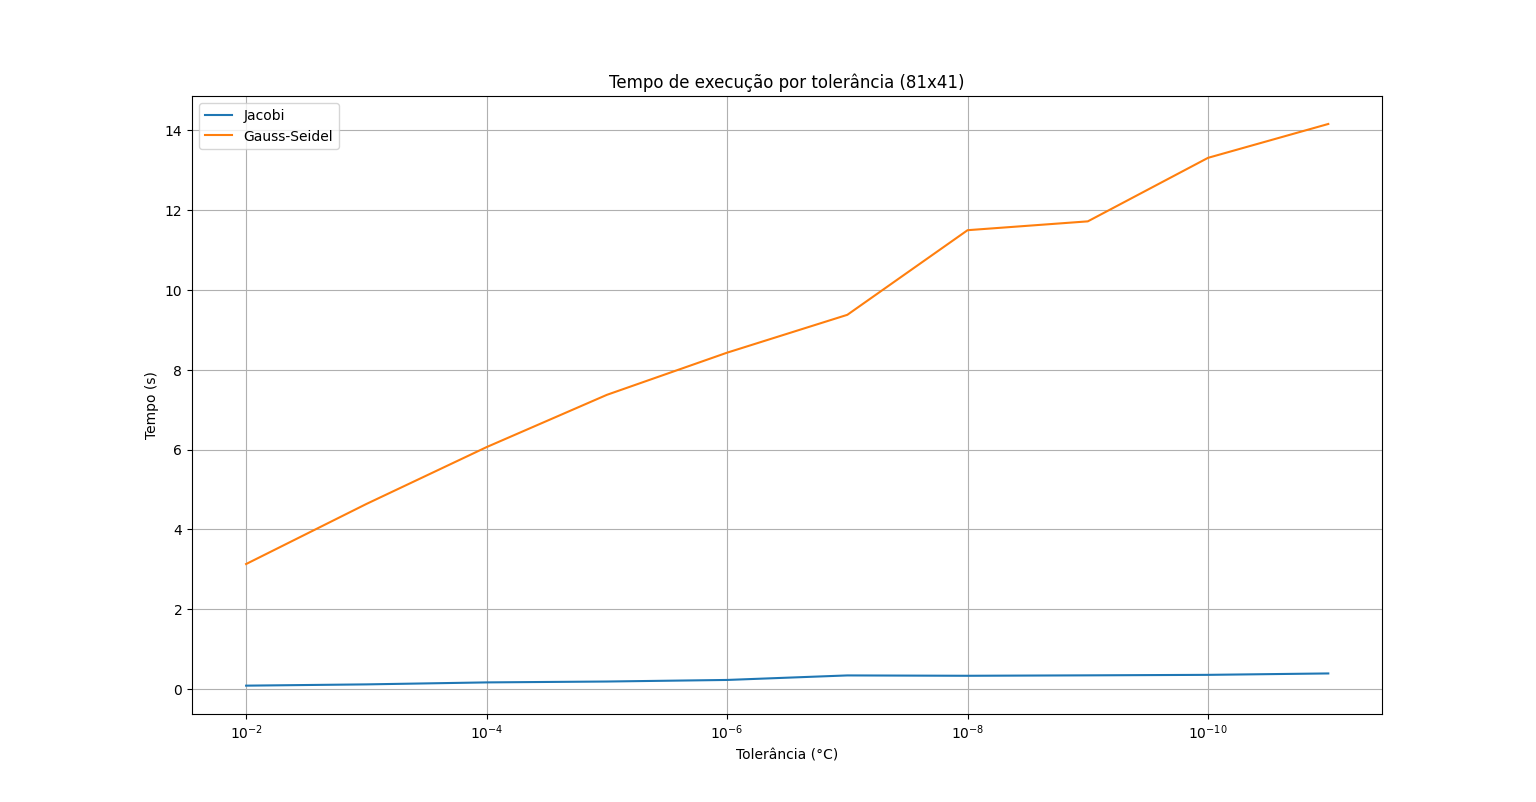
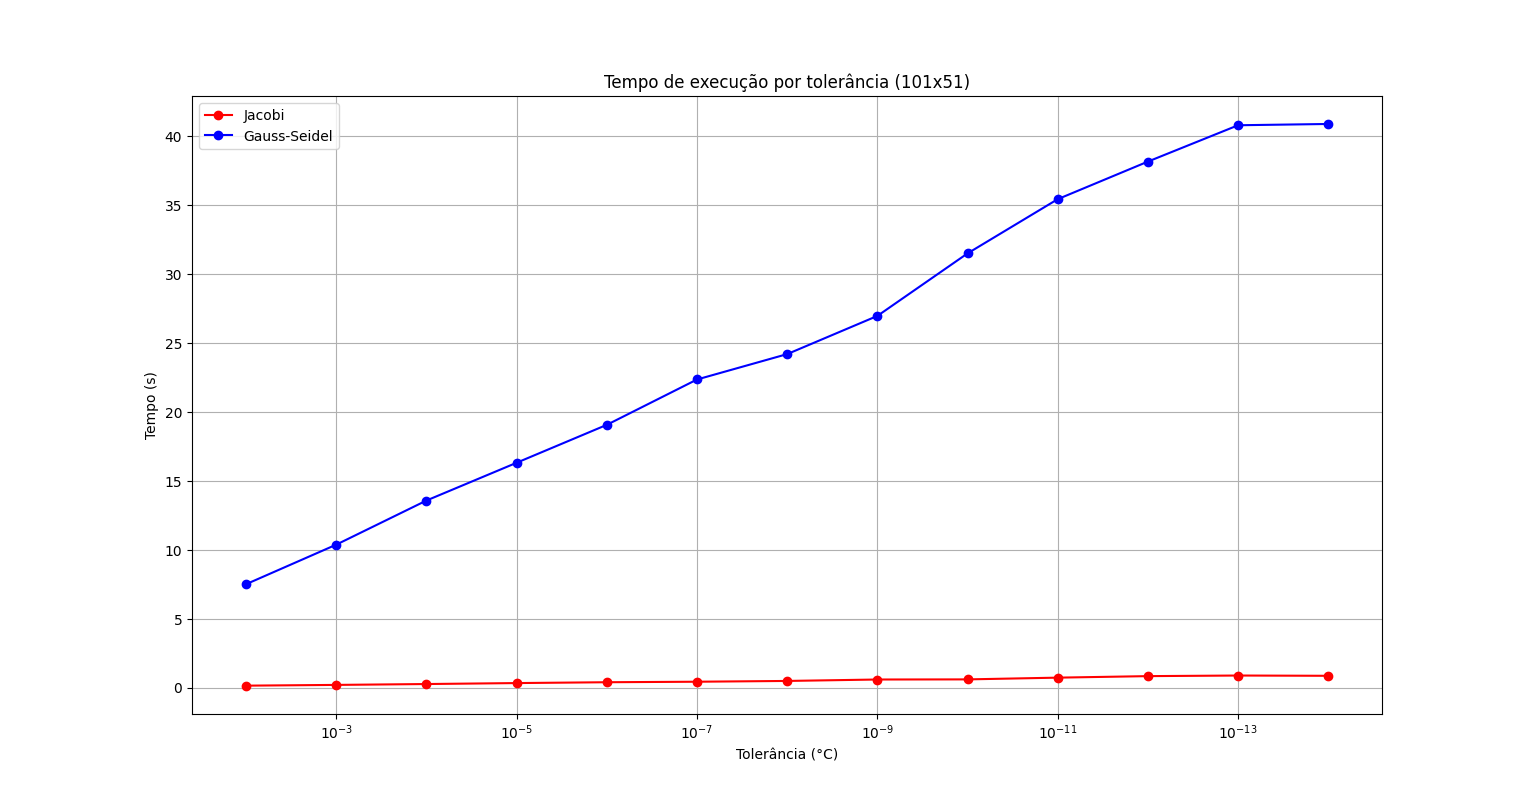
Ajustes finais

diff --git a/src/classes/placa_termica.py b/src/classes/placa_termica.py
@@ -491,8 +491,8 @@ class PlacaTermica:
                 termo_fonte
             )
 
-            if np.linalg.norm(T - T_new, np.inf) < epsilon:
-                self.temperaturas = T_new.T.reshape((self.N_total, 1))
+            if np.linalg.norm(T_new - T, np.inf) < epsilon:
+                self.temperaturas = T_new.T.reshape(self.N_total)
                 
                 tempo_fim = time.time()
                 self.tempos_execucao['resolucao'] = tempo_fim - tempo_inicio
@@ -502,7 +502,7 @@ class PlacaTermica:
 
             T = T_new
 
-        self.temperaturas = T.T.reshape((self.N_total, 1))
+        self.temperaturas = T.T.reshape(self.N_total)
 
         tempo_fim = time.time()
         self.tempos_execucao['resolucao'] = tempo_fim - tempo_inicio
@@ -532,7 +532,7 @@ class PlacaTermica:
                     )
 
             if np.linalg.norm(T - T_old, np.inf) < epsilon:
-                self.temperaturas = T.T.reshape((self.N_total, 1))
+                self.temperaturas = T.T.reshape(self.N_total)
 
                 tempo_fim = time.time()
                 self.tempos_execucao['resolucao'] = tempo_fim - tempo_inicio
@@ -540,7 +540,7 @@ class PlacaTermica:
 
                 return self.temperaturas
 
-        self.temperaturas = T.T.reshape((self.N_total, 1))
+        self.temperaturas = T.T.reshape(self.N_total)
         
         tempo_fim = time.time()
         self.tempos_execucao['resolucao'] = tempo_fim - tempo_inicio
@@ -820,11 +820,12 @@ def exercicio_3_extra():
 
 def exercicio_1_extra():
     print("\n--- EXERCÍCIO 1 EXTRA ---")
-    ex_1_extra_tolerancia()
+    # ex_1_extra_tolerancia()
     ex_1_extra_malha()
 
 def ex_1_extra_tolerancia():
-    Nx, Ny = 81, 41
+    print("\n--- GRÁFICO TEMPO X TOLERÂNCIA ---")
+    Nx, Ny = 101, 51
 
     placa = PlacaTermica(
         Lx=Lx,
@@ -837,21 +838,28 @@ def ex_1_extra_tolerancia():
 
     borda = borda_padrao(Nx, Ny)
 
-    tolerancia = list(map(lambda n:10**(-n), range(2,12)))
+    tolerancia = list(map(lambda n:10**(-n), range(2,15)))
 
     tempo_jacobi = []
     tempo_gauss_seidel = []
 
-    for epsilon in tolerancia:
-        placa.resolver_jacobi(borda, epsilon, max_iter=100000)
-        tempo_jacobi.append(placa.tempos_execucao['total'])
+    print("\nTolerância | Jacobi (s)   | Gauss-Seidel (s)")
 
-        placa.resolver_gauss_seidel(borda, epsilon, max_iter=100000)
-        tempo_gauss_seidel.append(placa.tempos_execucao['total'])
+    for epsilon in tolerancia:
+        placa.resolver_jacobi(borda, epsilon, max_iter=1000000)
+        t1 = placa.tempos_execucao['total']
+
+        placa.resolver_gauss_seidel(borda, epsilon, max_iter=1000000)
+        t2 = placa.tempos_execucao['total']
+
+        tempo_jacobi.append(t1)
+        tempo_gauss_seidel.append(t2)
+
+        print(f"{epsilon:.2e}".ljust(10), f"| {t1:.6e} | {t2:.6e}")
 
     plt.figure(figsize=(6,4))
-    plt.plot(tolerancia, tempo_jacobi, label='Jacobi')
-    plt.plot(tolerancia, tempo_gauss_seidel, label='Gauss-Seidel')
+    plt.plot(tolerancia, tempo_jacobi, 'r-o', label='Jacobi')
+    plt.plot(tolerancia, tempo_gauss_seidel, 'b-o', label='Gauss-Seidel')
 
     plt.xlabel('Tolerância (°C)')
     plt.ylabel('Tempo (s)')
@@ -867,15 +875,19 @@ def ex_1_extra_tolerancia():
     plt.show()
 
 def ex_1_extra_malha():
-    subdivisoes = list(map(lambda n: (n*10+1,n*5+1), range(2, 9)))
-    epsilon = 1e-5
+    print("\n--- GRÁFICO TEMPO X SUBDIVISÕES ---")
+    
+    subdivisoes = list(map(lambda n: (n*10+1,n*5+1), range(2, 13)))
+    epsilon = 1e-6
 
     num_celulas = []
     tempo_jacobi = []
     tempo_gauss_seidel = []
 
+    print("\nSubdivisões | Jacobi (s)   | Gauss-Seidel (s)")
+
     for (Nx, Ny) in subdivisoes:
-        num_celulas.append(Nx * Ny)
+        N_total = Nx * Ny
 
         placa = PlacaTermica(
             Lx=Lx,
@@ -889,14 +901,20 @@ def ex_1_extra_malha():
         borda = borda_padrao(Nx, Ny)
 
         placa.resolver_jacobi(borda, epsilon, max_iter=100000000)
-        tempo_jacobi.append(placa.tempos_execucao['total'])
+        t1 = placa.tempos_execucao['total']
 
         placa.resolver_gauss_seidel(borda, epsilon, max_iter=100000000)
-        tempo_gauss_seidel.append(placa.tempos_execucao['total'])
+        t2 = placa.tempos_execucao['total']
+
+        num_celulas.append(N_total)
+        tempo_jacobi.append(t1)
+        tempo_gauss_seidel.append(t2)
+
+        print(f"{N_total}".ljust(11), f"| {t1:.6e} | {t2:.6e}")
 
     plt.figure(figsize=(6,4))
-    plt.plot(num_celulas, tempo_jacobi, label='Jacobi')
-    plt.plot(num_celulas, tempo_gauss_seidel, label='Gauss-Seidel')
+    plt.plot(num_celulas, tempo_jacobi, 'r-o', label='Jacobi')
+    plt.plot(num_celulas, tempo_gauss_seidel, 'b-o', label='Gauss-Seidel')
 
     plt.xlabel('Número de subdivisões')
     plt.ylabel('Tempo (s)')
@@ -917,6 +935,6 @@ if __name__ == "__main__":
     # exercicio_4()
     # exercicio_5()
 
-    # exercicio_1_extra()
+    exercicio_1_extra()
     # exercicio_2_extra(T_estrela=30.0)
-    exercicio_3_extra()
+    # exercicio_3_extra()
